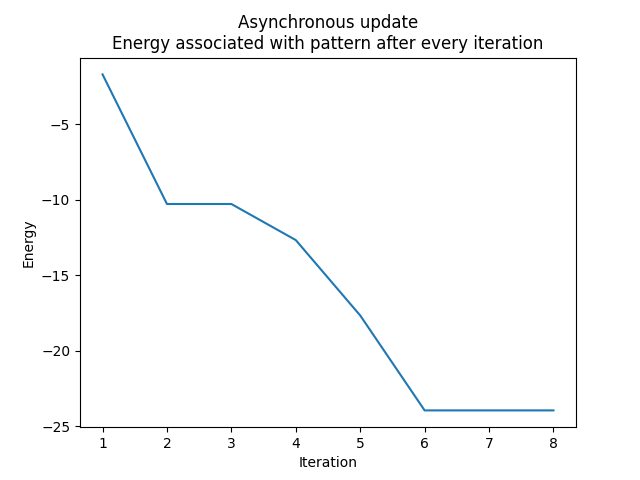
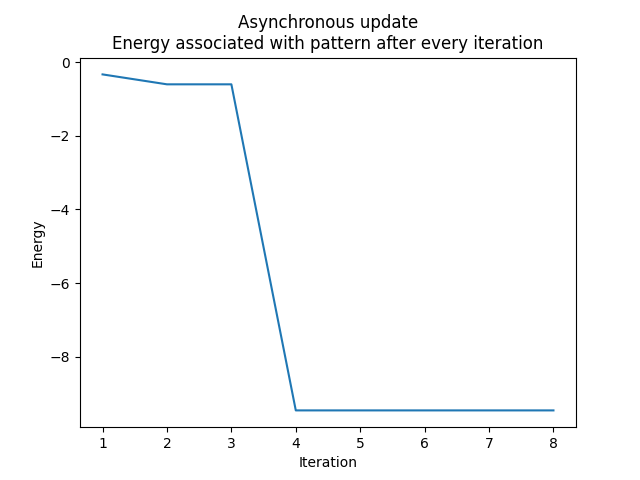
gg

diff --git a/Lab3/main_simo.py b/Lab3/main_simo.py
@@ -1,6 +1,7 @@
 from functions import *
 import itertools
 import numpy as np
+import pandas as pd
 import itertools
 import matplotlib.pyplot as plt
 
@@ -19,7 +20,7 @@ import matplotlib.pyplot as plt
 # x = synch_update(x3d, w)
 
 
-pic_data = np.genfromtxt('pict.dat', delimiter=',')
+pic_data = np.genfromtxt('Lab3/pict.dat', delimiter=',')
 
 patterns = pic_data.reshape((-1, 1024))
 
@@ -45,13 +46,13 @@ BIASED_PATTERNS = False
 SPARSE = True
 ITERATIVE_W = True
 NOISE_P = 0. # np.linspace(1, 10, 10) * 0.1
-REMOVE_SELF = True
+REMOVE_SELF = False
 
-BIASES_SPARSE = np.linspace(5, 10, 10) * 0.1
+BIASES_SPARSE = np.linspace(0, 10, 10) * 0.1
 ACTIVITIES = [0.1, 0.05, 0.01]
 
 
-bias_act_max = {}
+bias_act_max = pd.DataFrame(index=ACTIVITIES, columns=BIASES_SPARSE)
 for BIAS_SPARSE in BIASES_SPARSE:
     for ACTIVITY in ACTIVITIES:
         patterns = patterns[:STORED_PATTERNS, :]
@@ -97,14 +98,14 @@ for BIAS_SPARSE in BIASES_SPARSE:
                 stable_points.append(c/(i+1))
                 if c > max_stored:
                     max_stored = c
-                # print(f'{c} / {i+1} patterns are fixed points ')
-            bias_act_max[(BIAS_SPARSE, ACTIVITY)] = max_stored
+                print(f'{c} / {i+1} patterns are fixed points ')
+            bias_act_max.loc[ACTIVITY, BIAS_SPARSE] = max_stored
             plt.plot(np.arange(1, len(stable_points) + 1), stable_points)
             # plt.show()
 
         else:
             w = patterns.T @ patterns
-print(bias_act_max)
+print(bias_act_max.to_latex())
     # random initialization
     # w = gen_random_weights(patterns.shape[1])
     # w = get_symmetric_weights(patterns.shape[1])

diff --git a/Lab3/main_ennio.py b/Lab3/main_ennio.py
@@ -1,11 +1,14 @@
 import itertools
 import numpy as np
+import pandas as pd
 from functions import *
+
+np.random.seed(0)
 
 x1 = np.array([-1, -1, 1, -1, 1, -1, -1, 1])
 x2 = np.array([-1, -1, -1, -1, -1, 1, -1, -1])
 x3 = np.array([-1, 1, 1, -1, -1, 1, -1, 1])
-# 
+# # 
 patterns = np.vstack((x1, x2, x3))
 w = patterns.T @ patterns
 # energy_x1 = - w @ x1 @ x1
@@ -16,7 +19,7 @@ w = patterns.T @ patterns
 x1d = np.array([1, -1, 1, -1, 1, -1, -1, 1])
 x2d = np.array([1, 1, -1, -1, -1, 1, -1, -1])
 x3d = np.array([1, 1, 1, -1, 1, 1, -1, 1])
-
+# 
 print(x1)
 print(synch_update(x1d, w))
 print(x2)
@@ -44,3 +47,11 @@ print(synch_update(x3d, w))
 # w = 0.5 * (w + w.T)
 # x_rand = np.random.choice([-1, 1], size=8)
 # asynch_update(x_rand, w, energy=True)
+
+# BIASES_SPARSE = np.linspace(0, 10, 10) * 0.1
+# ACTIVITIES = [0.1, 0.05, 0.01]
+# 
+# 
+# bias_act_max = pd.DataFrame(index=ACTIVITIES, columns=BIASES_SPARSE)
+# bias_act_max.loc[0.1, 0.0] = 'suca'
+# print(bias_act_max)

diff --git a/try.py b/try.py
@@ -1,0 +1,31 @@
+import numpy as np
+
+weights = np.array([
+    [1, 0, -1],
+    [0, -3, -1]
+], dtype=np.float64)
+bias = np.array([[0], [1]], dtype=np.float64)
+patterns = np.array([
+    [1, -1, 1],
+    [1, -1, 0],
+    [-1, 2, 1]
+], dtype=np.float64)
+targets = np.array([
+    [-1, 1, 1],
+    [-1, 1, -1]
+], dtype=np.float64)
+
+y_prime = np.dot(weights, patterns) + bias
+all_e = y_prime - targets
+tot_e = np.sum(all_e**2)
+d_w = - 0.1 * all_e @ np.transpose(patterns)
+weights += d_w
+print(weights)
+y_prime = np.dot(weights, patterns) + bias
+all_e = y_prime - targets
+tot_e = np.sum(all_e**2)
+d_w = - 0.1 * all_e @ np.transpose(patterns)
+weights += d_w
+print(weights)
+y_prime = np.dot(weights, patterns) + bias
+print(np.where(y_prime >= 0, 1, -1))

diff --git a/Lab3/main.py b/Lab3/main.py
@@ -44,10 +44,10 @@ N_DIMS = 100
 BIASED_PATTERNS = False
 SPARSE = True
 ITERATIVE_W = True
-NOISE_P = 0.1 # np.linspace(1, 10, 10) * 0.1
-REMOVE_SELF = True
+NOISE_P = 0. # np.linspace(1, 10, 10) * 0.1
+REMOVE_SELF = False
 BIAS_SPARSE = 0.1, 0.2
-ACTIVITY = 0.05
+ACTIVITY = 0.1
 
 patterns = patterns[:STORED_PATTERNS, :]
 
